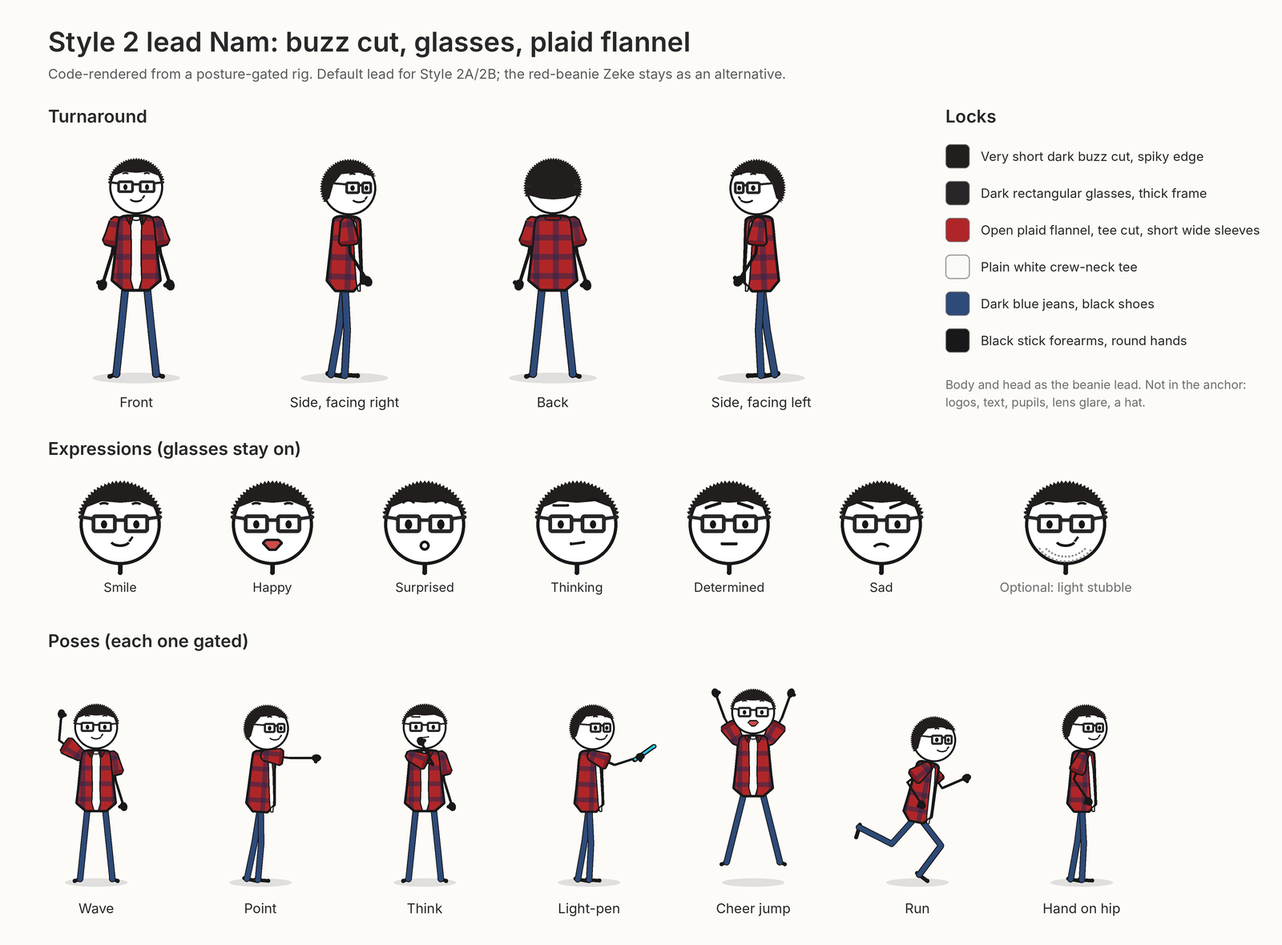
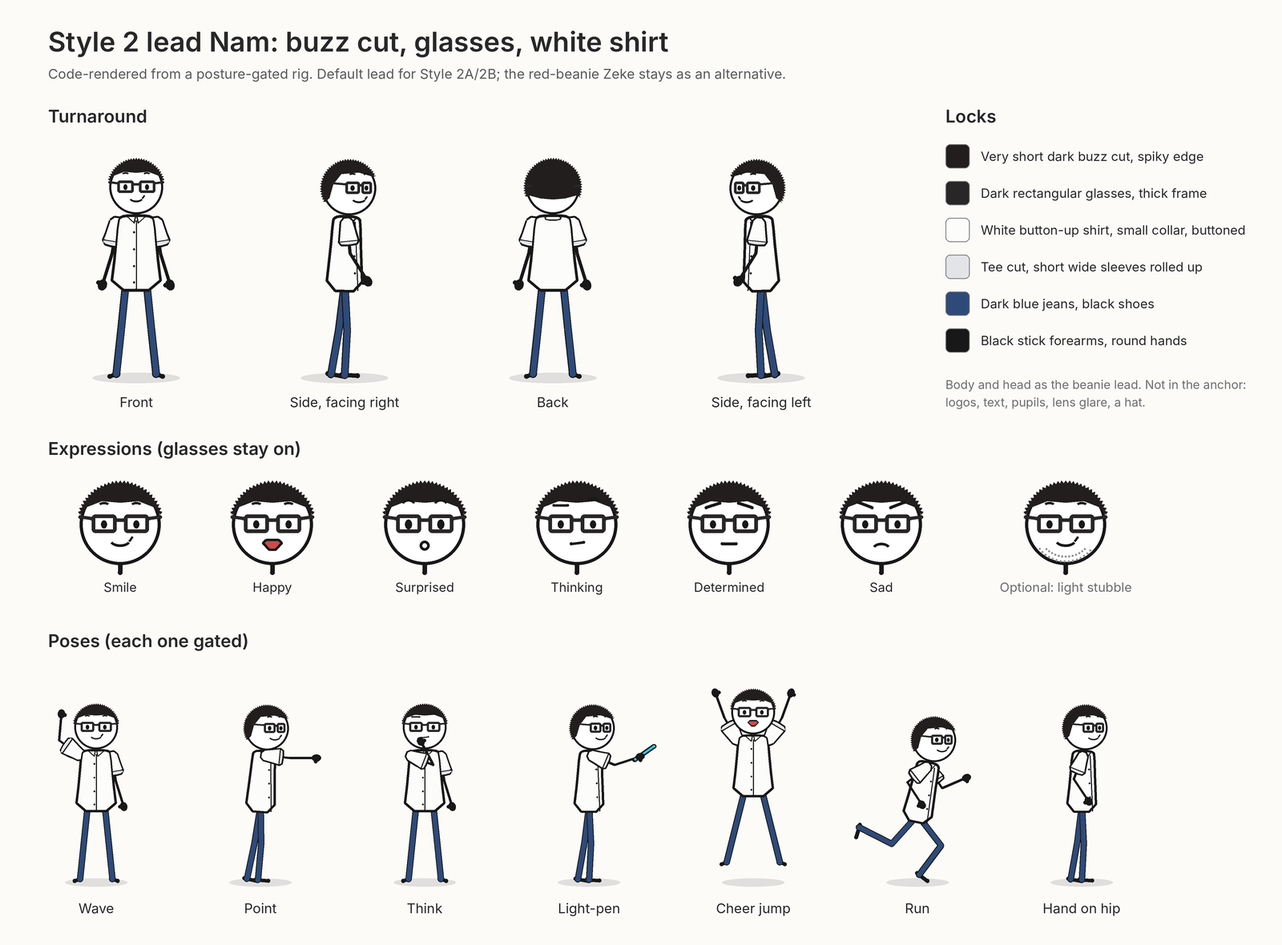
Style 2 lead: white short-sleeved button-up shirt instead of the flannel
Flat white shirt drawn like the beanie lead's tee (collar, button line,
rolled short sleeves); anchor, outfit locks, READMEs and tests follow.

Claude-Session: https://claude.ai/code/session_0134pMDqyhBXJozuLEa39vCw

diff --git a/docs/lead-character/render.py b/docs/lead-character/render.py
@@ -1,5 +1,5 @@
 #!/usr/bin/env python3
-"""Draw the Style 2 default lead (buzz cut, dark rectangular glasses, open plaid flannel over a white tee, jeans;
+"""Draw the Style 2 default lead (buzz cut, dark rectangular glasses, white short-sleeved button-up shirt, jeans;
 same body as upstream's red-beanie lead) from a code rig.
 
 Writes, next to this file:
@@ -24,10 +24,8 @@ HEAD_R = 21
 INK = (24, 24, 24)
 HAIR = (34, 30, 30)
 FRAME = (40, 38, 38)
-FLANNEL = (176, 38, 40)    # open red flannel shirt
-PLAID = (34, 40, 78)       # navy check bands
-CUFF = (128, 26, 30)       # rolled cuffs and collar
-TEE_WHITE = (250, 250, 248)
+SHIRT = (252, 252, 250)    # white button-up shirt, flat colour like the beanie lead's tee
+CUFF = (226, 228, 232)     # rolled cuffs, a touch greyer so the roll reads
 JEANS = (46, 74, 120)      # dark blue jeans
 SKIN = (255, 255, 255)     # the head stays white like every Style 2 figure
 STUBBLE = (150, 150, 150)
@@ -178,32 +176,6 @@ def axis(p, q):
     return ux, (-ux[1], ux[0])
 
 
-def plaid(pen, pts, s, origin, ux):
-    """Fill a polygon with a large, simple red-and-navy check (few, wide bands so it cannot shimmer).
-    The bands are laid out from `origin` along the garment axis `ux`, so the check moves and turns with the garment."""
-    xs = [x * SS for x, _ in pts]; ys = [y * SS for _, y in pts]
-    box = (int(min(xs)) - 2, int(min(ys)) - 2, int(max(xs)) + 3, int(max(ys)) + 3)
-    w, h = box[2] - box[0], box[3] - box[1]
-    ox, oy = round(origin[0] * SS), round(origin[1] * SS)
-    reach = int(math.hypot(max(abs(box[0] - ox), abs(box[2] - ox)), max(abs(box[1] - oy), abs(box[3] - oy)))) + 4
-    n = 2 * reach
-    tile = Image.new("RGB", (n, n), FLANNEL)
-    d = ImageDraw.Draw(tile, "RGBA")
-    step, band = 15 * s * SS, 4.4 * s * SS
-    k = reach - math.ceil(reach / step) * step   # a band edge sits on the origin (tile centre)
-    while k < n:
-        d.rectangle([k, 0, k + band, n], fill=PLAID + (125,))
-        d.rectangle([0, k, n, k + band], fill=PLAID + (125,))
-        k += step
-    # tile "down" is the garment axis: rotate it from (0, 1) onto ux
-    ang = math.degrees(math.atan2(ux[1], ux[0])) - 90
-    tile = tile.rotate(-ang, resample=Image.BICUBIC, center=(reach, reach), fillcolor=FLANNEL)
-    tile = tile.crop((box[0] - (ox - reach), box[1] - (oy - reach), box[2] - (ox - reach), box[3] - (oy - reach)))
-    mask = Image.new("L", (w, h), 0)
-    ImageDraw.Draw(mask).polygon([(x - box[0], y - box[1]) for x, y in zip(xs, ys)], fill=255)
-    pen.img.paste(tile, box[:2], mask)
-
-
 def chaikin(pts, n=2):
     """Round a closed outline (corner cutting), so garments read as soft cartoon shapes."""
     for _ in range(n):
@@ -263,13 +235,14 @@ def draw_stick(pen, j, k, s, prop=None):
 
 
 def fill_sleeve(pen, j, k, s):
-    """Short flared flannel sleeve with a rolled cuff band at its open end; returns its outline."""
+    """Short flared shirt sleeve with a rolled cuff band at its open end; returns its outline."""
     sh, el = j[f"shoulder_{k}"], j[f"elbow_{k}"]
     poly, end, px = sleeve_shape(sh, el, s)
     ux = axis(sh, el)[0]
-    plaid(pen, poly, s, sh, ux)
+    pen.poly(poly, SHIRT)
     pen.poly(chaikin([add(add(end, ux, -2.6 * s), px, 7.6 * s), add(end, px, 8.4 * s), add(end, px, -8.4 * s),
                       add(add(end, ux, -2.6 * s), px, -7.6 * s)], 1), CUFF)
+    pen.line([add(add(end, ux, -2.6 * s), px, 7.4 * s), add(add(end, ux, -2.6 * s), px, -7.4 * s)], INK, 0.9 * s)
     return poly
 
 
@@ -301,30 +274,30 @@ def draw_shirt(pen, j, s, view, sleeves=()):
     pen.poly(body, None, INK, 2 * LINE * s)
     for k in sleeves:
         fill_sleeve(pen, j, k, s)
-    plaid(pen, body, s, j["neck"], axis(j["neck"], j["pelvis"])[0])
+    pen.poly(body, SHIRT)
     ux, px = axis(j["neck"], j["pelvis"])
     top = add(j["neck"], ux, 0.5 * s); hem = add(j["pelvis"], ux, 6 * s)
     if view == "front":
-        # open flannel: the white tee shows down the middle, collar points either side
-        tee = chaikin([add(top, px, 4.6 * s), add(lerp(top, hem, 0.5), px, 3.6 * s), add(hem, px, 4.4 * s),
-                       add(hem, px, -4.4 * s), add(lerp(top, hem, 0.5), px, -3.6 * s), add(top, px, -4.6 * s)], 1)
-        pen.poly(tee, TEE_WHITE, INK, 1.1 * s)
-        c = add(j["neck"], (0, 1.0 * s))
-        pen.arc([c[0] - 4.6 * s, c[1] - 3.2 * s, c[0] + 4.6 * s, c[1] + 3.2 * s], 15, 165, INK, 1.1 * s)
+        # buttoned white shirt: placket line with button dots, small pointed collar either side of the neck
+        pen.line([add(top, ux, 4 * s), add(hem, ux, -0.6 * s)], INK, 0.9 * s)
+        for t in (0.22, 0.45, 0.68, 0.9):
+            pen.circle(add(add(lerp(top, hem, t), px, 1.6 * s), ux, 0), 0.75 * s, fill=INK)
         for side in (1, -1):
-            pen.poly([add(top, px, side * 4.6 * s), add(top, px, side * 8.5 * s), add(add(top, ux, 6.5 * s), px, side * 5.2 * s)],
-                     CUFF, INK, 1.1 * s)
+            pen.poly([add(top, px, side * 0.6 * s), add(top, px, side * 7.5 * s), add(add(top, ux, 5.5 * s), px, side * 1.6 * s)],
+                     SHIRT, INK, 1.1 * s)
     elif view in ("right", "left"):
         sgn = 1 if view == "right" else -1
         f = 1 if (px[0] * sgn) > 0 else -1
-        tee = chaikin([add(top, px, f * 4.0 * s), add(add(top, ux, 6 * s), px, f * 8.6 * s), add(hem, px, f * 13.3 * s),
-                       add(hem, px, f * 9.8 * s), add(lerp(top, hem, 0.5), px, f * 6.8 * s)], 1)
-        pen.poly(tee, TEE_WHITE, INK, 1.1 * s)
-        pen.poly([add(top, px, f * 2.5 * s), add(top, px, f * 6.4 * s), add(add(top, ux, 6 * s), px, f * 4.6 * s)],
-                 CUFF, INK, 1.1 * s)
+        # placket near the front edge, one collar point
+        pen.line([add(add(top, ux, 4 * s), px, f * 6.5 * s), add(add(hem, ux, -0.6 * s), px, f * 10.5 * s)], INK, 0.9 * s)
+        for t in (0.25, 0.5, 0.75):
+            q = lerp(add(add(top, ux, 4 * s), px, f * 6.5 * s), add(add(hem, ux, -0.6 * s), px, f * 10.5 * s), t)
+            pen.circle(add(q, px, -f * 1.6 * s), 0.75 * s, fill=INK)
+        pen.poly([add(top, px, f * 1.5 * s), add(top, px, f * 7.4 * s), add(add(top, ux, 5.5 * s), px, f * 4.0 * s)],
+                 SHIRT, INK, 1.1 * s)
     else:
         pen.poly(chaikin([add(top, px, 6.5 * s), add(top, px, -6.5 * s), add(add(top, ux, 3.2 * s), px, -5.5 * s),
-                          add(add(top, ux, 3.2 * s), px, 5.5 * s)], 1), CUFF, INK, 1.1 * s)
+                          add(add(top, ux, 3.2 * s), px, 5.5 * s)], 1), SHIRT, INK, 1.1 * s)
     pen.poly(body, None, INK, LINE * s)
 
 
@@ -626,7 +599,7 @@ def make_gif(walk_frames, wave_frames, s_walk, s_wave):
         draw_figure(img, j, "front", s_wave, expr=f["_expr"], over_face="l" if f.get("face_cover") or
                     j["wrist_l"][1] < j["neck"][1] else None)
         out.append(finish(img))
-    # one shared palette for every frame, so the plaid and the jeans keep their colours
+    # one shared palette for every frame, so the shirt and the jeans keep their colours
     probe = Image.new("RGB", (W, H * 4))
     for i, k in enumerate((0, len(walk_frames) // 2, len(walk_frames) + 6, len(out) - 10)):
         probe.paste(out[k], (0, H * i))
@@ -638,7 +611,7 @@ def make_gif(walk_frames, wave_frames, s_walk, s_wave):
 def make_sheet(poses):
     W, H = 1600, 1180
     img = canvas(W, H, (252, 251, 248))
-    text(img, (60, 52), "Style 2 lead Nam: buzz cut, glasses, plaid flannel", 34, True, anchor="lm")
+    text(img, (60, 52), "Style 2 lead Nam: buzz cut, glasses, white shirt", 34, True, anchor="lm")
     text(img, (60, 92), "Code-rendered from a posture-gated rig. Default lead for Style 2A/2B; the red-beanie Zeke stays as an alternative.",
          17, anchor="lm", fill=(90, 90, 90))
     # row 1: turnaround
@@ -660,7 +633,7 @@ def make_sheet(poses):
     px = 1180
     text(img, (px, 145), "Locks", 22, True, anchor="lm")
     rows = [(HAIR, "Very short dark buzz cut, spiky edge"), (FRAME, "Dark rectangular glasses, thick frame"),
-            (FLANNEL, "Open plaid flannel, tee cut, short wide sleeves"), (TEE_WHITE, "Plain white crew-neck tee"),
+            (SHIRT, "White button-up shirt, small collar, buttoned"), (CUFF, "Tee cut, short wide sleeves rolled up"),
             (JEANS, "Dark blue jeans, black shoes"), (INK, "Black stick forearms, round hands")]
     for i, (c, lab) in enumerate(rows):
         y = 195 + i * 46

diff --git a/tests/verify-examples.py b/tests/verify-examples.py
@@ -32,7 +32,7 @@ dark = re.findall(r"```text\n(.*?)\n```", catalog.split("**Classic Dark", 1)[1],
 assert all(dark in p for p in prompts(style1)), "Style 1 example must repeat the current Dark anchor"
 lead = re.findall(r"```text\n(.*?)\n```", catalog.split("**Character Anchor (every clip, verbatim):**", 1)[1], re.S)[0]
 beanie = re.findall(r"```text\n(.*?)\n```", catalog.split("**Alternative: Beanie Zeke anchor", 1)[1], re.S)[0]
-assert "white round head" in lead and "dot eyes" in lead and "buzz cut" in lead and "glasses" in lead and "flannel" in lead and "large simple check" in lead and "very short neck" in lead and "stick arms" in lead and "legs in dark blue jeans" in lead and "short wide sleeves" in lead and "cut like a t-shirt" in lead, "Style 2 default lead is the buzz-cut, glasses one"
+assert "white round head" in lead and "dot eyes" in lead and "buzz cut" in lead and "glasses" in lead and "white short-sleeved button-up shirt" in lead and "small pointed collar" in lead and "very short neck" in lead and "stick arms" in lead and "legs in dark blue jeans" in lead and "short wide sleeves" in lead and "cut like a t-shirt" in lead, "Style 2 default lead is the buzz-cut, glasses one"
 assert "red beanie" in beanie and "no pom-pom" in beanie, "the beanie lead stays documented as the alternative"
 assert all(f"Character: {lead}" in p for p in prompts(style2a)), "Style 2A example must repeat the full default anchor"
 assert not any(beanie in p for p in prompts(style2a)), "one lead per video"

diff --git a/skills/directing-stickman-videos/references/style-catalog.md b/skills/directing-stickman-videos/references/style-catalog.md
@@ -119,7 +119,7 @@ Occasional simple line expressions are allowed by default. Before freezing eithe
 
 ## 3. Style 2: Modern Pop
 
-Style 2 has one recurring lead per video. The default is Nam (buzz cut, glasses, open plaid flannel over a white tee, jeans). Nam keeps the beanie lead's body: the same big round white head on a very short neck, loose tee-cut shirt flaring slightly to just below the hips, short wide sleeves, thin black stick limbs and simple face; only the hair, glasses and clothes change. Upstream's red-beanie Zeke is kept as an alternative: use it only when the user asks for the beanie character or for Zeke by name. Never mix the two anchors in one video.
+Style 2 has one recurring lead per video. The default is Nam (buzz cut, glasses, white short-sleeved button-up shirt, jeans). Nam keeps the beanie lead's body: the same big round white head on a very short neck, loose tee-cut shirt flaring slightly to just below the hips, short wide sleeves, thin black stick limbs and simple face; only the hair, glasses and clothes change. Upstream's red-beanie Zeke is kept as an alternative: use it only when the user asks for the beanie character or for Zeke by name. Never mix the two anchors in one video.
 
 Character sheet, expressions, poses and a motion clip of the default lead: `docs/lead-character/` at repository level (code-rendered from a posture-gated rig; no generated video).
 
@@ -129,7 +129,7 @@ To prevent character drift, bug-eye deformations, or clothing loss across clips,
 
 **Character Anchor (every clip, verbatim):**
 ```text
-A minimalist 2D animated stick figure with a big white round head on a very short neck, simple dot eyes, a very short dark buzz cut (close-cropped spiky black hair) and thick dark rectangular glasses, wearing a loose open red-and-navy flannel shirt with a large simple check, cut like a t-shirt that flares slightly to just below the hips, with short wide sleeves rolled up above the elbows, over a plain white t-shirt, with simple black stick arms and slim legs in dark blue jeans. Simple black lines, vibrant colors, smooth 2D animation style.
+A minimalist 2D animated stick figure with a big white round head on a very short neck, simple dot eyes, a very short dark buzz cut (close-cropped spiky black hair) and thick dark rectangular glasses, wearing a loose plain white short-sleeved button-up shirt with a small pointed collar, buttoned all the way down, cut like a t-shirt that flares slightly to just below the hips, with short wide sleeves rolled up above the elbows, with simple black stick arms and slim legs in dark blue jeans. Simple black lines, vibrant colors, smooth 2D animation style.
 ```
 
 **Alternative: Beanie Zeke anchor (every clip, verbatim, only when the user asks for it):**
@@ -143,7 +143,7 @@ Repeat the chosen full anchor in clips 2–N as well. The earlier short form for
 - **No Realistic Facial Features**: Round white head with minimal dot eyes only. Never request detailed pupils, irises, or photorealistic facial contours (which trigger alien bug-eyes).
 - **Glasses stay on** (default lead): in every shot, including jumps, bumps and close-ups, with clear lenses and the dot eyes behind them. No lens glare, no sunglasses, no glasses floating off the face. If a beat needs the glasses adjusted, the hand pushes them up and lets go; they never come off.
 - **Buzz cut stays close-cropped** (default lead): no long, swept or spiked-up hair, no hat, no beanie.
-- **Outfit locks** (default lead): the flannel is always open with the white tee showing down the middle, short wide sleeves rolled up above the elbows (drawn like the beanie lead's tee sleeves, flaring open) so the stick arms show below them, and the check is large and simple (few wide navy bands on red; fine plaid shimmers between frames). No logo, text or print on the tee; jeans stay dark blue, never shorts. Light stubble is not in the anchor: at stick-figure scale it reads as dirt or a beard. Add "faint light stubble dots along the jaw" to the anchor only when the user asks, and then in every clip.
+- **Outfit locks** (default lead): the shirt is plain white with a thin black outline, buttoned, with a small pointed collar and a thin button line down the front; short wide sleeves rolled up above the elbows (drawn like the beanie lead's tee sleeves, flaring open) so the stick arms show below them. No pattern, logo, text or tie, no jacket, no long sleeves; jeans stay dark blue, never shorts. Light stubble is not in the anchor: at stick-figure scale it reads as dirt or a beard. Add "faint light stubble dots along the jaw" to the anchor only when the user asks, and then in every clip.
 - **No Pom-Poms** (beanie alternative): Specify smooth rounded beanie top to prevent erratic pom-poms or winter tassels.
 - **Always include every clothing lock**: Omitting the shirt results in naked stick bodies; omitting the glasses and hair (or the beanie) results in standard Style 1 characters.
 
@@ -186,7 +186,7 @@ in a rich full-color cinematic environment [describe setting: e.g., a dimly lit 
 ```
 
 #### Character & Style Consistency
-- The character remains the same minimalist 2D stick figure: the default lead's buzz cut, glasses, open plaid flannel and jeans (or the beanie alternative, if chosen).
+- The character remains the same minimalist 2D stick figure: the default lead's buzz cut, glasses, white button-up shirt and jeans (or the beanie alternative, if chosen).
 - Maintain smooth 2D vector animation aesthetics for the character even within a textured, atmospheric background.
 
 #### Negative Constraints

diff --git a/skills/directing-stickman-videos/references/examples.md b/skills/directing-stickman-videos/references/examples.md
@@ -262,7 +262,7 @@ Create an approximately 10-second 16:9 video, 24 FPS, targeting 720p with synchr
 
 Environment: A modern bright white studio space with subtle light-gray perspective grid lines on the floor plane. High-key studio lighting, clean white negative space, sleek glowing cyan and electric blue glass holographic UI elements.
 
-Character: A minimalist 2D animated stick figure with a big white round head on a very short neck, simple dot eyes, a very short dark buzz cut (close-cropped spiky black hair) and thick dark rectangular glasses, wearing a loose open red-and-navy flannel shirt with a large simple check, cut like a t-shirt that flares slightly to just below the hips, with short wide sleeves rolled up above the elbows, over a plain white t-shirt, with simple black stick arms and slim legs in dark blue jeans. Simple black lines, vibrant colors, smooth 2D animation style.
+Character: A minimalist 2D animated stick figure with a big white round head on a very short neck, simple dot eyes, a very short dark buzz cut (close-cropped spiky black hair) and thick dark rectangular glasses, wearing a loose plain white short-sleeved button-up shirt with a small pointed collar, buttoned all the way down, cut like a t-shirt that flares slightly to just below the hips, with short wide sleeves rolled up above the elbows, with simple black stick arms and slim legs in dark blue jeans. Simple black lines, vibrant colors, smooth 2D animation style.
 
 First frame: Nam crouches mid-leap at the center of the grid floor, arms swinging up.
 Hands at start — Nam: right hand empty; left hand empty.
@@ -287,7 +287,7 @@ Create an approximately 10-second 16:9 video, 24 FPS, targeting 720p with synchr
 
 Environment: The identical modern bright white studio space with subtle light-gray perspective grid lines.
 
-Character: A minimalist 2D animated stick figure with a big white round head on a very short neck, simple dot eyes, a very short dark buzz cut (close-cropped spiky black hair) and thick dark rectangular glasses, wearing a loose open red-and-navy flannel shirt with a large simple check, cut like a t-shirt that flares slightly to just below the hips, with short wide sleeves rolled up above the elbows, over a plain white t-shirt, with simple black stick arms and slim legs in dark blue jeans. Simple black lines, vibrant colors, smooth 2D animation style.
+Character: A minimalist 2D animated stick figure with a big white round head on a very short neck, simple dot eyes, a very short dark buzz cut (close-cropped spiky black hair) and thick dark rectangular glasses, wearing a loose plain white short-sleeved button-up shirt with a small pointed collar, buttoned all the way down, cut like a t-shirt that flares slightly to just below the hips, with short wide sleeves rolled up above the elbows, with simple black stick arms and slim legs in dark blue jeans. Simple black lines, vibrant colors, smooth 2D animation style.
 
 Timed Synchronized Visual Beats:
 Hands at start — Nam: right hand empty; left hand empty.
@@ -311,7 +311,7 @@ Create an approximately 10-second 16:9 video, 24 FPS, targeting 720p with synchr
 
 Environment: The identical modern bright white studio space with subtle light-gray perspective grid lines.
 
-Character: A minimalist 2D animated stick figure with a big white round head on a very short neck, simple dot eyes, a very short dark buzz cut (close-cropped spiky black hair) and thick dark rectangular glasses, wearing a loose open red-and-navy flannel shirt with a large simple check, cut like a t-shirt that flares slightly to just below the hips, with short wide sleeves rolled up above the elbows, over a plain white t-shirt, with simple black stick arms and slim legs in dark blue jeans. Simple black lines, vibrant colors, smooth 2D animation style.
+Character: A minimalist 2D animated stick figure with a big white round head on a very short neck, simple dot eyes, a very short dark buzz cut (close-cropped spiky black hair) and thick dark rectangular glasses, wearing a loose plain white short-sleeved button-up shirt with a small pointed collar, buttoned all the way down, cut like a t-shirt that flares slightly to just below the hips, with short wide sleeves rolled up above the elbows, with simple black stick arms and slim legs in dark blue jeans. Simple black lines, vibrant colors, smooth 2D animation style.
 
 Timed Synchronized Visual Beats:
 Hands at start — Nam: right hand empty; left hand empty.

diff --git a/README.md b/README.md
@@ -77,7 +77,7 @@ Vài nét vẽ đủ để giải thích một ý lớn. Trên nền trắng tin
 
 ### Phong cách 2: Hiện đại, vui mắt
 
-Ở bản fork này, nhân vật chính để tóc đinh sẫm màu, đeo kính cận gọng chữ nhật đậm, mặc sơ mi caro đỏ mở cúc ngoài áo thun trắng và quần jeans, giữ nguyên dáng người của nhân vật upstream; nhân vật mũ len đỏ, áo vàng của upstream vẫn dùng được khi bạn yêu cầu. Dùng bối cảnh công nghệ gọn gàng để giải thích một sản phẩm, hoặc đưa nhân vật vào phòng ngủ, đường phố, cảnh thiên nhiên rộng để kể chuyện.
+Ở bản fork này, nhân vật chính để tóc đinh sẫm màu, đeo kính cận gọng chữ nhật đậm, mặc sơ mi trắng ngắn tay và quần jeans, giữ nguyên dáng người của nhân vật upstream; nhân vật mũ len đỏ, áo vàng của upstream vẫn dùng được khi bạn yêu cầu. Dùng bối cảnh công nghệ gọn gàng để giải thích một sản phẩm, hoặc đưa nhân vật vào phòng ngủ, đường phố, cảnh thiên nhiên rộng để kể chuyện.
 
 - **Trông thế nào:** Một nhân vật dễ nhớ, hai kiểu thế giới. 2A là khoảng trắng, lưới mờ, giao diện kính trôi nổi và ánh xanh lam. 2B là bối cảnh nhiều màu, ánh sáng điện ảnh và chiều sâu.
 - **Hợp với:** 2A cho công cụ AI, sản phẩm công nghệ, hướng dẫn và demo tính năng. 2B cho phát triển bản thân, tình huống đời thường, phiêu lưu và chuyện truyền động lực.
@@ -90,7 +90,7 @@ Vài nét vẽ đủ để giải thích một ý lớn. Trên nền trắng tin
 
 Hai clip trên do upstream làm với nhân vật mũ len đỏ. Đây là nhân vật chính mặc định của bản fork, vẽ từ khung xương bằng code và đã qua gate tư thế ([character sheet](docs/lead-character/sheet.png)):
 
-<p align="center"><img src="docs/lead-character/motion.gif" alt="Nhân vật chính mặc định của Phong cách 2, người que tóc đinh, đeo kính, sơ mi caro đỏ và quần jeans, đi vào và vẫy tay" width="480"></p>
+<p align="center"><img src="docs/lead-character/motion.gif" alt="Nhân vật chính mặc định của Phong cách 2, người que tóc đinh, đeo kính, sơ mi trắng và quần jeans, đi vào và vẫy tay" width="480"></p>
 
 ---
 
@@ -349,7 +349,7 @@ Giai đoạn đầu của kịch bản, Golden Hook, giờ có thẻ riêng tron
 
 ### Nhân vật chính của Phong cách 2
 
-Phong cách 2 giờ mặc định dùng nhân vật tóc đinh ngắn sẫm màu, kính cận gọng chữ nhật đậm, sơ mi flannel caro đỏ xanh than mở cúc, xắn tay, mặc ngoài áo thun trắng trơn, và quần jeans xanh đậm. Dáng người và khuôn mặt theo nhân vật mũ len của upstream. Kính luôn ở trên mặt trong mọi cảnh. Nhân vật mũ len đỏ Zeke của upstream vẫn được giữ làm lựa chọn thay thế: hãy yêu cầu nhân vật mũ len, Skill sẽ dùng anchor của nhân vật đó. Character sheet, các tư thế và clip chuyển động nằm trong `docs/lead-character/`; mọi tư thế đều đã qua gate tư thế và không có gì được tạo bằng mô hình AI.
+Phong cách 2 giờ mặc định dùng nhân vật tóc đinh ngắn sẫm màu, kính cận gọng chữ nhật đậm, sơ mi trắng trơn ngắn tay, cổ bẻ nhỏ, cài cúc, tay áo xắn, và quần jeans xanh đậm. Dáng người và khuôn mặt theo nhân vật mũ len của upstream. Kính luôn ở trên mặt trong mọi cảnh. Nhân vật mũ len đỏ Zeke của upstream vẫn được giữ làm lựa chọn thay thế: hãy yêu cầu nhân vật mũ len, Skill sẽ dùng anchor của nhân vật đó. Character sheet, các tư thế và clip chuyển động nằm trong `docs/lead-character/`; mọi tư thế đều đã qua gate tư thế và không có gì được tạo bằng mô hình AI.
 
 <!-- readme:advantages -->
 

diff --git a/README.vi.md b/README.vi.md
@@ -77,7 +77,7 @@ Vài nét vẽ đủ để giải thích một ý lớn. Trên nền trắng tin
 
 ### Phong cách 2: Hiện đại, vui mắt
 
-Ở bản fork này, nhân vật chính để tóc đinh sẫm màu, đeo kính cận gọng chữ nhật đậm, mặc sơ mi caro đỏ mở cúc ngoài áo thun trắng và quần jeans, giữ nguyên dáng người của nhân vật upstream; nhân vật mũ len đỏ, áo vàng của upstream vẫn dùng được khi bạn yêu cầu. Dùng bối cảnh công nghệ gọn gàng để giải thích một sản phẩm, hoặc đưa nhân vật vào phòng ngủ, đường phố, cảnh thiên nhiên rộng để kể chuyện.
+Ở bản fork này, nhân vật chính để tóc đinh sẫm màu, đeo kính cận gọng chữ nhật đậm, mặc sơ mi trắng ngắn tay và quần jeans, giữ nguyên dáng người của nhân vật upstream; nhân vật mũ len đỏ, áo vàng của upstream vẫn dùng được khi bạn yêu cầu. Dùng bối cảnh công nghệ gọn gàng để giải thích một sản phẩm, hoặc đưa nhân vật vào phòng ngủ, đường phố, cảnh thiên nhiên rộng để kể chuyện.
 
 - **Trông thế nào:** Một nhân vật dễ nhớ, hai kiểu thế giới. 2A là khoảng trắng, lưới mờ, giao diện kính trôi nổi và ánh xanh lam. 2B là bối cảnh nhiều màu, ánh sáng điện ảnh và chiều sâu.
 - **Hợp với:** 2A cho công cụ AI, sản phẩm công nghệ, hướng dẫn và demo tính năng. 2B cho phát triển bản thân, tình huống đời thường, phiêu lưu và chuyện truyền động lực.
@@ -90,7 +90,7 @@ Vài nét vẽ đủ để giải thích một ý lớn. Trên nền trắng tin
 
 Hai clip trên do upstream làm với nhân vật mũ len đỏ. Đây là nhân vật chính mặc định của bản fork, vẽ từ khung xương bằng code và đã qua gate tư thế ([character sheet](docs/lead-character/sheet.png)):
 
-<p align="center"><img src="docs/lead-character/motion.gif" alt="Nhân vật chính mặc định của Phong cách 2, người que tóc đinh, đeo kính, sơ mi caro đỏ và quần jeans, đi vào và vẫy tay" width="480"></p>
+<p align="center"><img src="docs/lead-character/motion.gif" alt="Nhân vật chính mặc định của Phong cách 2, người que tóc đinh, đeo kính, sơ mi trắng và quần jeans, đi vào và vẫy tay" width="480"></p>
 
 ---
 
@@ -349,7 +349,7 @@ Giai đoạn đầu của kịch bản, Golden Hook, giờ có thẻ riêng tron
 
 ### Nhân vật chính của Phong cách 2
 
-Phong cách 2 giờ mặc định dùng nhân vật tóc đinh ngắn sẫm màu, kính cận gọng chữ nhật đậm, sơ mi flannel caro đỏ xanh than mở cúc, xắn tay, mặc ngoài áo thun trắng trơn, và quần jeans xanh đậm. Dáng người và khuôn mặt theo nhân vật mũ len của upstream. Kính luôn ở trên mặt trong mọi cảnh. Nhân vật mũ len đỏ Zeke của upstream vẫn được giữ làm lựa chọn thay thế: hãy yêu cầu nhân vật mũ len, Skill sẽ dùng anchor của nhân vật đó. Character sheet, các tư thế và clip chuyển động nằm trong `docs/lead-character/`; mọi tư thế đều đã qua gate tư thế và không có gì được tạo bằng mô hình AI.
+Phong cách 2 giờ mặc định dùng nhân vật tóc đinh ngắn sẫm màu, kính cận gọng chữ nhật đậm, sơ mi trắng trơn ngắn tay, cổ bẻ nhỏ, cài cúc, tay áo xắn, và quần jeans xanh đậm. Dáng người và khuôn mặt theo nhân vật mũ len của upstream. Kính luôn ở trên mặt trong mọi cảnh. Nhân vật mũ len đỏ Zeke của upstream vẫn được giữ làm lựa chọn thay thế: hãy yêu cầu nhân vật mũ len, Skill sẽ dùng anchor của nhân vật đó. Character sheet, các tư thế và clip chuyển động nằm trong `docs/lead-character/`; mọi tư thế đều đã qua gate tư thế và không có gì được tạo bằng mô hình AI.
 
 <!-- readme:advantages -->
 

diff --git a/skills/directing-stickman-videos/SKILL.md b/skills/directing-stickman-videos/SKILL.md
@@ -18,7 +18,7 @@ Require these before planning:
 - target duration: in multiples of 10 seconds (e.g. `30s`, `60s`, `90s`, `3min`, `5min`; default: `60s` / 6 clips if unspecified)
 - visual style and theme:
   - `Style 1 (Classic Minimalist)`: light (white background, black figure) or dark (black background, white figure)
-  - `Style 2 (Modern Pop)`: default lead Nam (dark buzz cut, dark rectangular glasses, open red plaid flannel over a white tee, jeans; same body as the beanie lead); upstream's red-beanie Zeke only when the user asks for it
+  - `Style 2 (Modern Pop)`: default lead Nam (dark buzz cut, dark rectangular glasses, white short-sleeved button-up shirt, jeans; same body as the beanie lead); upstream's red-beanie Zeke only when the user asks for it
     - `Style 2A (Modern Studio Tech)`: pure white high-key studio, subtle light-gray perspective grid, floating cyan/blue glass UI
     - `Style 2B (Cinematic Story)`: full-color narrative environments, cinematic lighting & depth
   - `Style 3 (Prehistoric Hand-Drawn / Dark Comedy)`: expressive white filled heads, black stick limbs, animal-hide costumes and earthy prehistoric settings; story-specific casting
@@ -59,7 +59,7 @@ For Style 4, read `references/cozy-storytelling.md` before planning and prompt a
 - For Style 1, freeze the concise character anchor from `references/style-catalog.md` and repeat it verbatim in every clip. Keep two arms and two legs, one current pose per limb, stable proportions and uniform medium line weight; a moving arm replaces its previous pose rather than adding another arm. Keep the figure monochrome and saturated accents on props/graphics. Do not replace the anchor with "same character", ellipses, numeric anatomy recipes, skeleton/path instructions or clip-specific appearance descriptions. Occasional simple line expressions are allowed; the head remains hollow. Keep rich actions and effects separate from character design. Treat generated consistency as a visual acceptance check, not a guarantee from repeated text.
 - For Style 1, limit the video to three saturated accent colors named with ordinary descriptive words (e.g. vivid red, electric blue, warm gold). For light theme, enforce a flat, digitally pure-white canvas with no textures, gradients, or 3D depth.
 - For Style 2 (Modern Pop), enforce character consistency:
-  - Every clip, 1 through N, repeats this default anchor verbatim: `A minimalist 2D animated stick figure with a big white round head on a very short neck, simple dot eyes, a very short dark buzz cut (close-cropped spiky black hair) and thick dark rectangular glasses, wearing a loose open red-and-navy flannel shirt with a large simple check, cut like a t-shirt that flares slightly to just below the hips, with short wide sleeves rolled up above the elbows, over a plain white t-shirt, with simple black stick arms and slim legs in dark blue jeans. Simple black lines, vibrant colors, smooth 2D animation style.`
+  - Every clip, 1 through N, repeats this default anchor verbatim: `A minimalist 2D animated stick figure with a big white round head on a very short neck, simple dot eyes, a very short dark buzz cut (close-cropped spiky black hair) and thick dark rectangular glasses, wearing a loose plain white short-sleeved button-up shirt with a small pointed collar, buttoned all the way down, cut like a t-shirt that flares slightly to just below the hips, with short wide sleeves rolled up above the elbows, with simple black stick arms and slim legs in dark blue jeans. Simple black lines, vibrant colors, smooth 2D animation style.`
   - Use the beanie alternative from `references/style-catalog.md` instead only when the user asks for the beanie character or Zeke; never mix the two leads in one video.
   - Never shorten the anchor to "the same figure" or an ellipsis in later clips; that drops the clothing, glasses and limb locks.
   - No detailed eyes, pupils, or photorealistic features (avoids bug-eye deformation). The glasses stay on in every shot.

diff --git a/README.en.md b/README.en.md
@@ -77,7 +77,7 @@ A few lines can explain a big idea. On a pure-white or pure-black canvas, charac
 
 ### Style 2: Modern Pop
 
-In this fork the lead has a short dark buzz cut, dark rectangular glasses, an open red plaid flannel over a white T-shirt, and jeans, on the same body as upstream's lead; upstream's red-beanie, yellow-shirt character is still there if you ask for it. Use a clean tech setting to explain a product, or take the character into bedrooms, streets, and open landscapes for a story.
+In this fork the lead has a short dark buzz cut, dark rectangular glasses, a white short-sleeved button-up shirt, and jeans, on the same body as upstream's lead; upstream's red-beanie, yellow-shirt character is still there if you ask for it. Use a clean tech setting to explain a product, or take the character into bedrooms, streets, and open landscapes for a story.
 
 - **The look:** One recognizable character, two kinds of world. 2A pairs white space and a faint grid with floating glass interfaces and cyan-blue light. 2B uses colorful settings, cinematic lighting, and depth.
 - **Best for:** 2A suits AI tools, tech products, tutorials, and feature demos. 2B suits personal growth, everyday situations, adventures, and motivational stories.
@@ -90,7 +90,7 @@ In this fork the lead has a short dark buzz cut, dark rectangular glasses, an op
 
 The two clips above were made upstream with the red-beanie lead. Here is this fork's default lead, drawn from a code rig that passed the posture gate ([character sheet](docs/lead-character/sheet.png)):
 
-<p align="center"><img src="docs/lead-character/motion.gif" alt="The default Style 2 lead, a stick figure with a buzz cut, glasses, an open plaid flannel and jeans, walks in and waves" width="480"></p>
+<p align="center"><img src="docs/lead-character/motion.gif" alt="The default Style 2 lead, a stick figure with a buzz cut, glasses, a white shirt and jeans, walks in and waves" width="480"></p>
 
 ---
 
@@ -349,7 +349,7 @@ The first stage of the script, the Golden Hook, now has its own card in the dire
 
 ### Style 2 lead
 
-Style 2 now defaults to a lead with a short dark buzz cut, thick dark rectangular glasses, an open red-and-navy plaid flannel with rolled sleeves over a plain white T-shirt, and dark blue jeans. The body and face follow upstream's red-beanie lead. The glasses stay on in every shot. Upstream's red-beanie Zeke stays as the alternative: ask for the beanie character and the Skill uses its anchor instead. The character sheet, poses and motion clip are in `docs/lead-character/`; every pose passed the posture gate, and none of it was made with an AI model.
+Style 2 now defaults to a lead with a short dark buzz cut, thick dark rectangular glasses, a plain white short-sleeved button-up shirt with rolled sleeves, and dark blue jeans. The body and face follow upstream's red-beanie lead. The glasses stay on in every shot. Upstream's red-beanie Zeke stays as the alternative: ask for the beanie character and the Skill uses its anchor instead. The character sheet, poses and motion clip are in `docs/lead-character/`; every pose passed the posture gate, and none of it was made with an AI model.
 
 <!-- readme:advantages -->
 

diff --git a/skills/directing-stickman-videos/references/omni-flash-prompt-contract.md b/skills/directing-stickman-videos/references/omni-flash-prompt-contract.md
@@ -33,7 +33,7 @@ Write every prompt in this order:
 3. Character lock:
    - For Style 1: repeat the concise frozen character anchor from `style-catalog.md`, including the chosen polarity and expression setting; no "same character" shortcuts, numeric anatomy recipes, skeleton/rig definitions or pen paths. Keep the circular head hollow, proportions and line weight stable, and only the current pose of each of the two arms and two legs. A raised arm replaces its old lowered line. Keep accents on props/graphics, never recolor the figure. Do not let action or camera wording redefine the drawing; preserve rich motion and effects separately.
    - For Style 2 (Modern Pop):
-     - Every clip, verbatim, the default lead: `A minimalist 2D animated stick figure with a big white round head on a very short neck, simple dot eyes, a very short dark buzz cut (close-cropped spiky black hair) and thick dark rectangular glasses, wearing a loose open red-and-navy flannel shirt with a large simple check, cut like a t-shirt that flares slightly to just below the hips, with short wide sleeves rolled up above the elbows, over a plain white t-shirt, with simple black stick arms and slim legs in dark blue jeans. Simple black lines, vibrant colors, smooth 2D animation style.`
+     - Every clip, verbatim, the default lead: `A minimalist 2D animated stick figure with a big white round head on a very short neck, simple dot eyes, a very short dark buzz cut (close-cropped spiky black hair) and thick dark rectangular glasses, wearing a loose plain white short-sleeved button-up shirt with a small pointed collar, buttoned all the way down, cut like a t-shirt that flares slightly to just below the hips, with short wide sleeves rolled up above the elbows, with simple black stick arms and slim legs in dark blue jeans. Simple black lines, vibrant colors, smooth 2D animation style.`
      - Only when the user asked for the beanie character: the beanie alternative anchor from `style-catalog.md`, verbatim, instead. One lead per video.
      - No "the same figure" or ellipsis shortcut in clips 2–N. The glasses stay on in every beat.
    - For Style 4: repeat its full frozen character anchor from `cozy-storytelling.md`, including white head/torso fill, dark limbs and simple facial marks. Location and expression changes do not redesign the character.

diff --git a/README.ja.md b/README.ja.md
@@ -90,9 +90,9 @@
 | <img src="assets/readme/previews/style-2a-demo.gif" alt="ミニマルなテック空間のアニメ" width="360"> | <img src="assets/readme/previews/style-2b-demo.gif" alt="彩りと光で物語を描くアニメ" width="360"> |
 | 白い空間・薄いグリッド・シアンの光 | カラフルな舞台・映画的な光・物語の空気感 |
 
-上の2本はアップストリームの赤いニット帽のキャラクターで作られています。このフォークの既定の主人公は、短い黒の坊主頭、黒い角型メガネ、白Tシャツの上に前を開けた赤のチェックのネルシャツ、ジーンズです。体型はアップストリームの主人公と同じです（[キャラクターシート](docs/lead-character/sheet.png)、[詳細](README.en.md#fork-additions)）。
+上の2本はアップストリームの赤いニット帽のキャラクターで作られています。このフォークの既定の主人公は、短い黒の坊主頭、黒い角型メガネ、白い半袖のボタンシャツ、ジーンズです。体型はアップストリームの主人公と同じです（[キャラクターシート](docs/lead-character/sheet.png)、[詳細](README.en.md#fork-additions)）。
 
-<p align="center"><img src="docs/lead-character/motion.gif" alt="坊主頭とメガネ、赤チェックのネルシャツとジーンズの棒人間が歩いて手を振る" width="480"></p>
+<p align="center"><img src="docs/lead-character/motion.gif" alt="坊主頭とメガネ、白いシャツとジーンズの棒人間が歩いて手を振る" width="480"></p>
 
 ---
 

diff --git a/README.pt-BR.md b/README.pt-BR.md
@@ -90,9 +90,9 @@ O gorro vermelho e a camiseta amarela são a marca do personagem. Ele pode expli
 | <img src="assets/readme/previews/style-2a-demo.gif" alt="Animação em um ambiente tecnológico minimalista" width="360"> | <img src="assets/readme/previews/style-2b-demo.gif" alt="Personagem em um cenário colorido com iluminação cinematográfica" width="360"> |
 | Espaço branco · Grade discreta · Brilho ciano | Cenários coloridos · Luz de cinema · Clima de história |
 
-Os dois clipes acima foram feitos no upstream com o personagem de gorro vermelho. Neste fork, o protagonista padrão tem cabelo raspado escuro, óculos retangulares escuros, camisa xadrez vermelha aberta sobre camiseta branca e jeans, com o mesmo corpo do protagonista do upstream ([ficha do personagem](docs/lead-character/sheet.png), [detalhes](README.en.md#fork-additions)).
+Os dois clipes acima foram feitos no upstream com o personagem de gorro vermelho. Neste fork, o protagonista padrão tem cabelo raspado escuro, óculos retangulares escuros, camisa social branca de manga curta e jeans, com o mesmo corpo do protagonista do upstream ([ficha do personagem](docs/lead-character/sheet.png), [detalhes](README.en.md#fork-additions)).
 
-<p align="center"><img src="docs/lead-character/motion.gif" alt="Boneco de palito com cabelo raspado, óculos, camisa xadrez e jeans entra andando e acena" width="480"></p>
+<p align="center"><img src="docs/lead-character/motion.gif" alt="Boneco de palito com cabelo raspado, óculos, camisa branca e jeans entra andando e acena" width="480"></p>
 
 ---
 

diff --git a/docs/lead-character/README.md b/docs/lead-character/README.md
@@ -1,6 +1,6 @@
 # Style 2 default lead
 
-Nam is the default lead of Style 2 (Modern Pop): a very short dark buzz cut, thick dark rectangular glasses, an open red-and-navy plaid flannel shirt over a plain white tee, cut and drawn like the beanie lead's tee (slight flare, short wide sleeves rolled up above the elbows, one outline for shirt and sleeves), dark blue jeans and black stick limbs. The body (big round white head, short neck, loose tee-shaped shirt, thin stick limbs, simple face) is the same as upstream's red-beanie lead; only the hair, glasses and clothes differ. Upstream's red-beanie Zeke stays available as the alternative lead; the skill uses it only when asked. The prompt anchors for both live in `skills/directing-stickman-videos/references/style-catalog.md`.
+Nam is the default lead of Style 2 (Modern Pop): a very short dark buzz cut, thick dark rectangular glasses, a plain white short-sleeved button-up shirt with a small collar, cut and drawn like the beanie lead's tee (slight flare, short wide sleeves rolled up above the elbows, one outline for shirt and sleeves), dark blue jeans and black stick limbs. The body (big round white head, short neck, loose tee-shaped shirt, thin stick limbs, simple face) is the same as upstream's red-beanie lead; only the hair, glasses and clothes differ. Upstream's red-beanie Zeke stays available as the alternative lead; the skill uses it only when asked. The prompt anchors for both live in `skills/directing-stickman-videos/references/style-catalog.md`.
 
 ![Character sheet](sheet.png)
 
